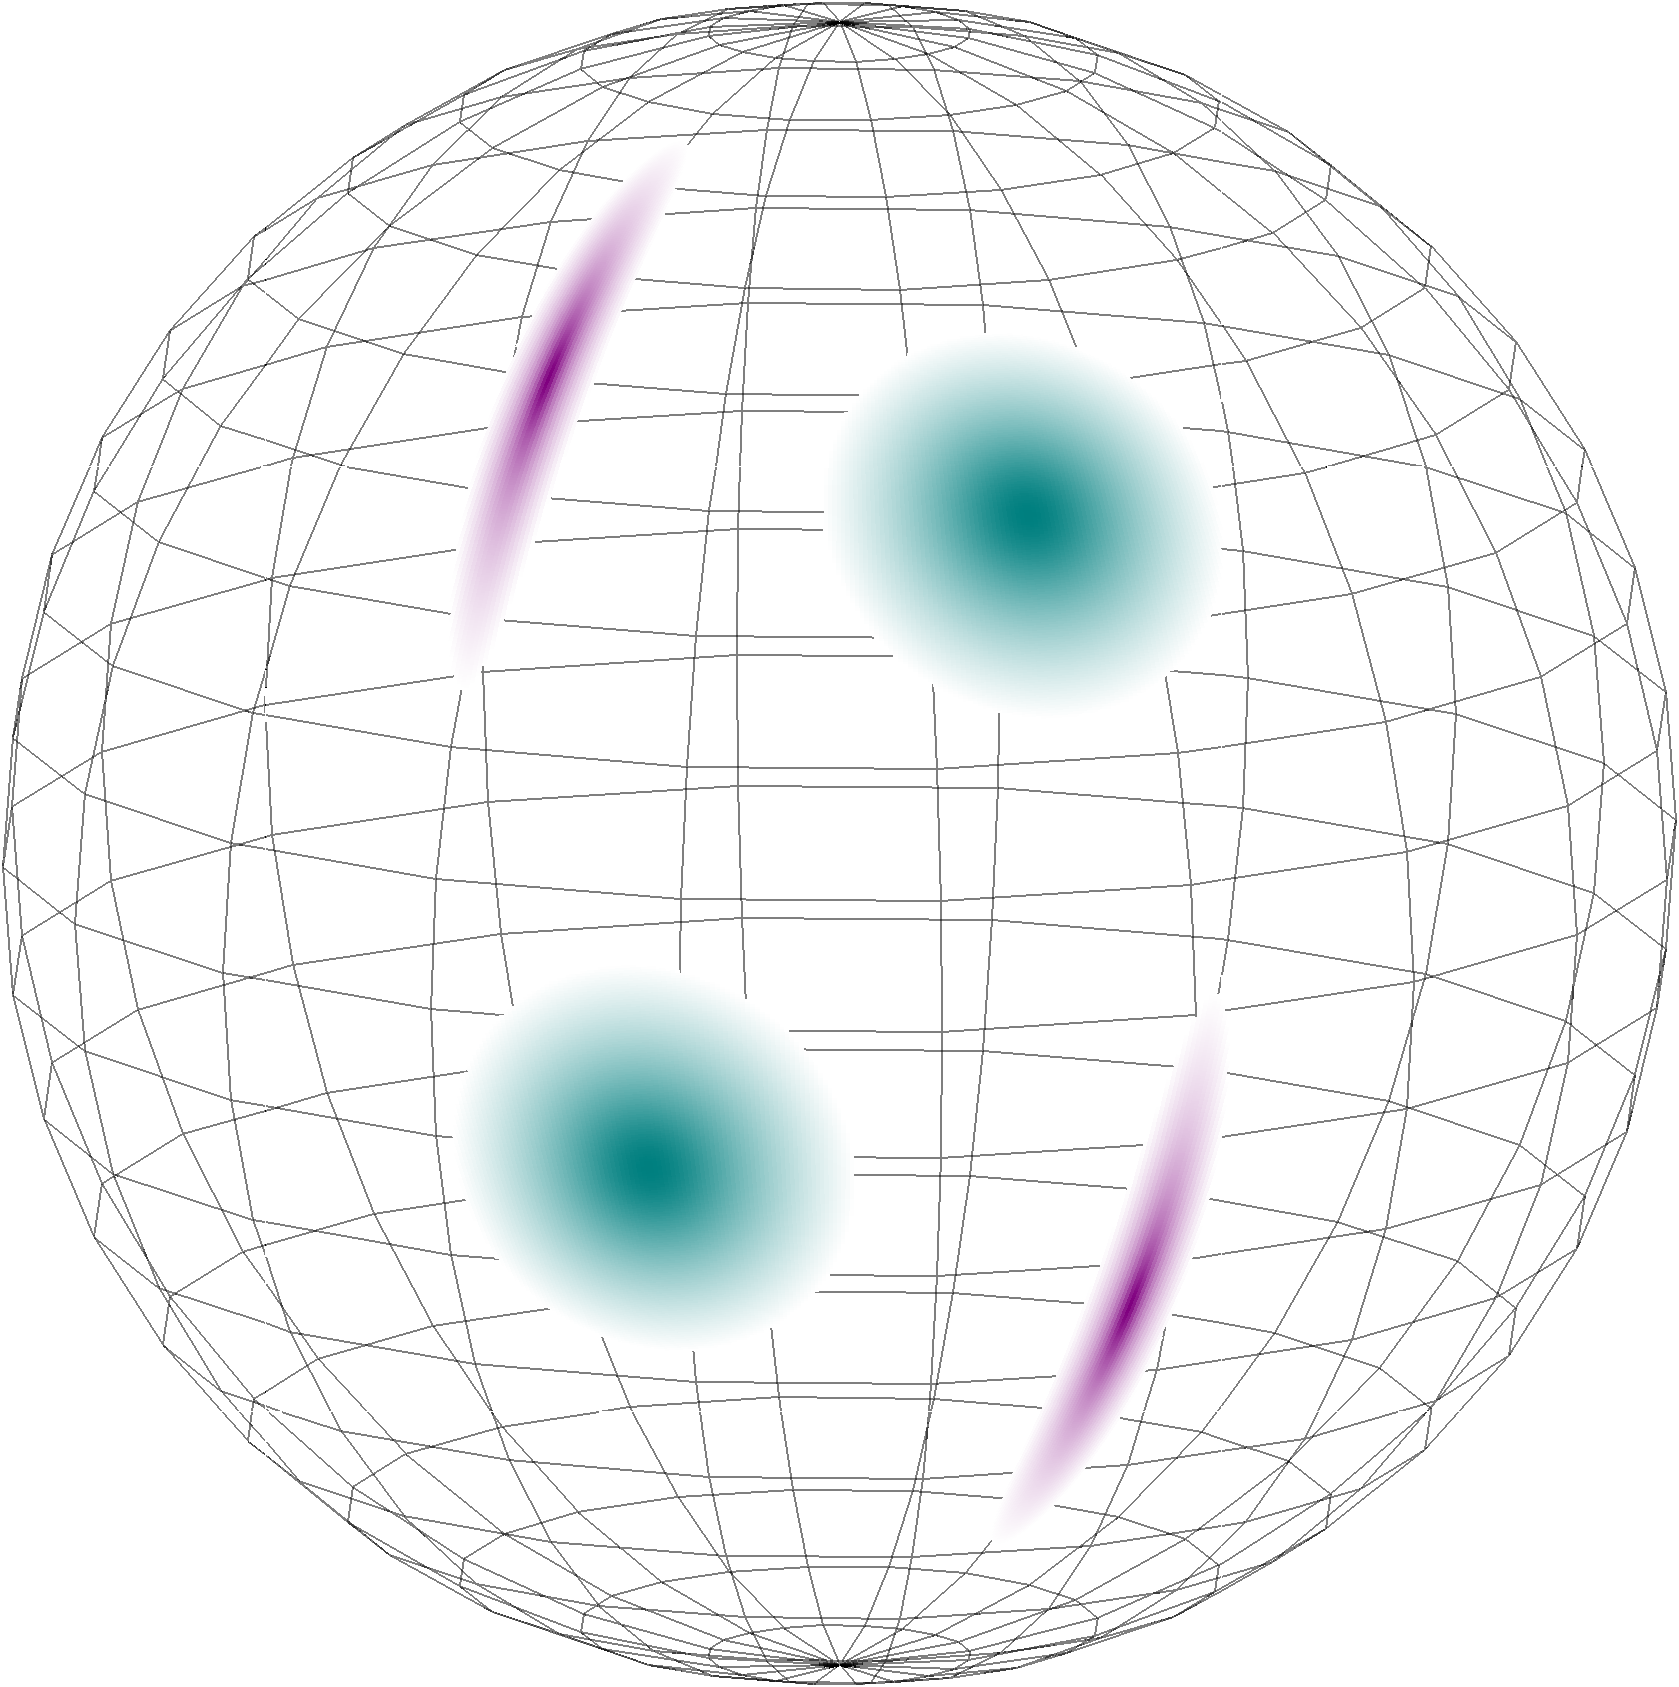
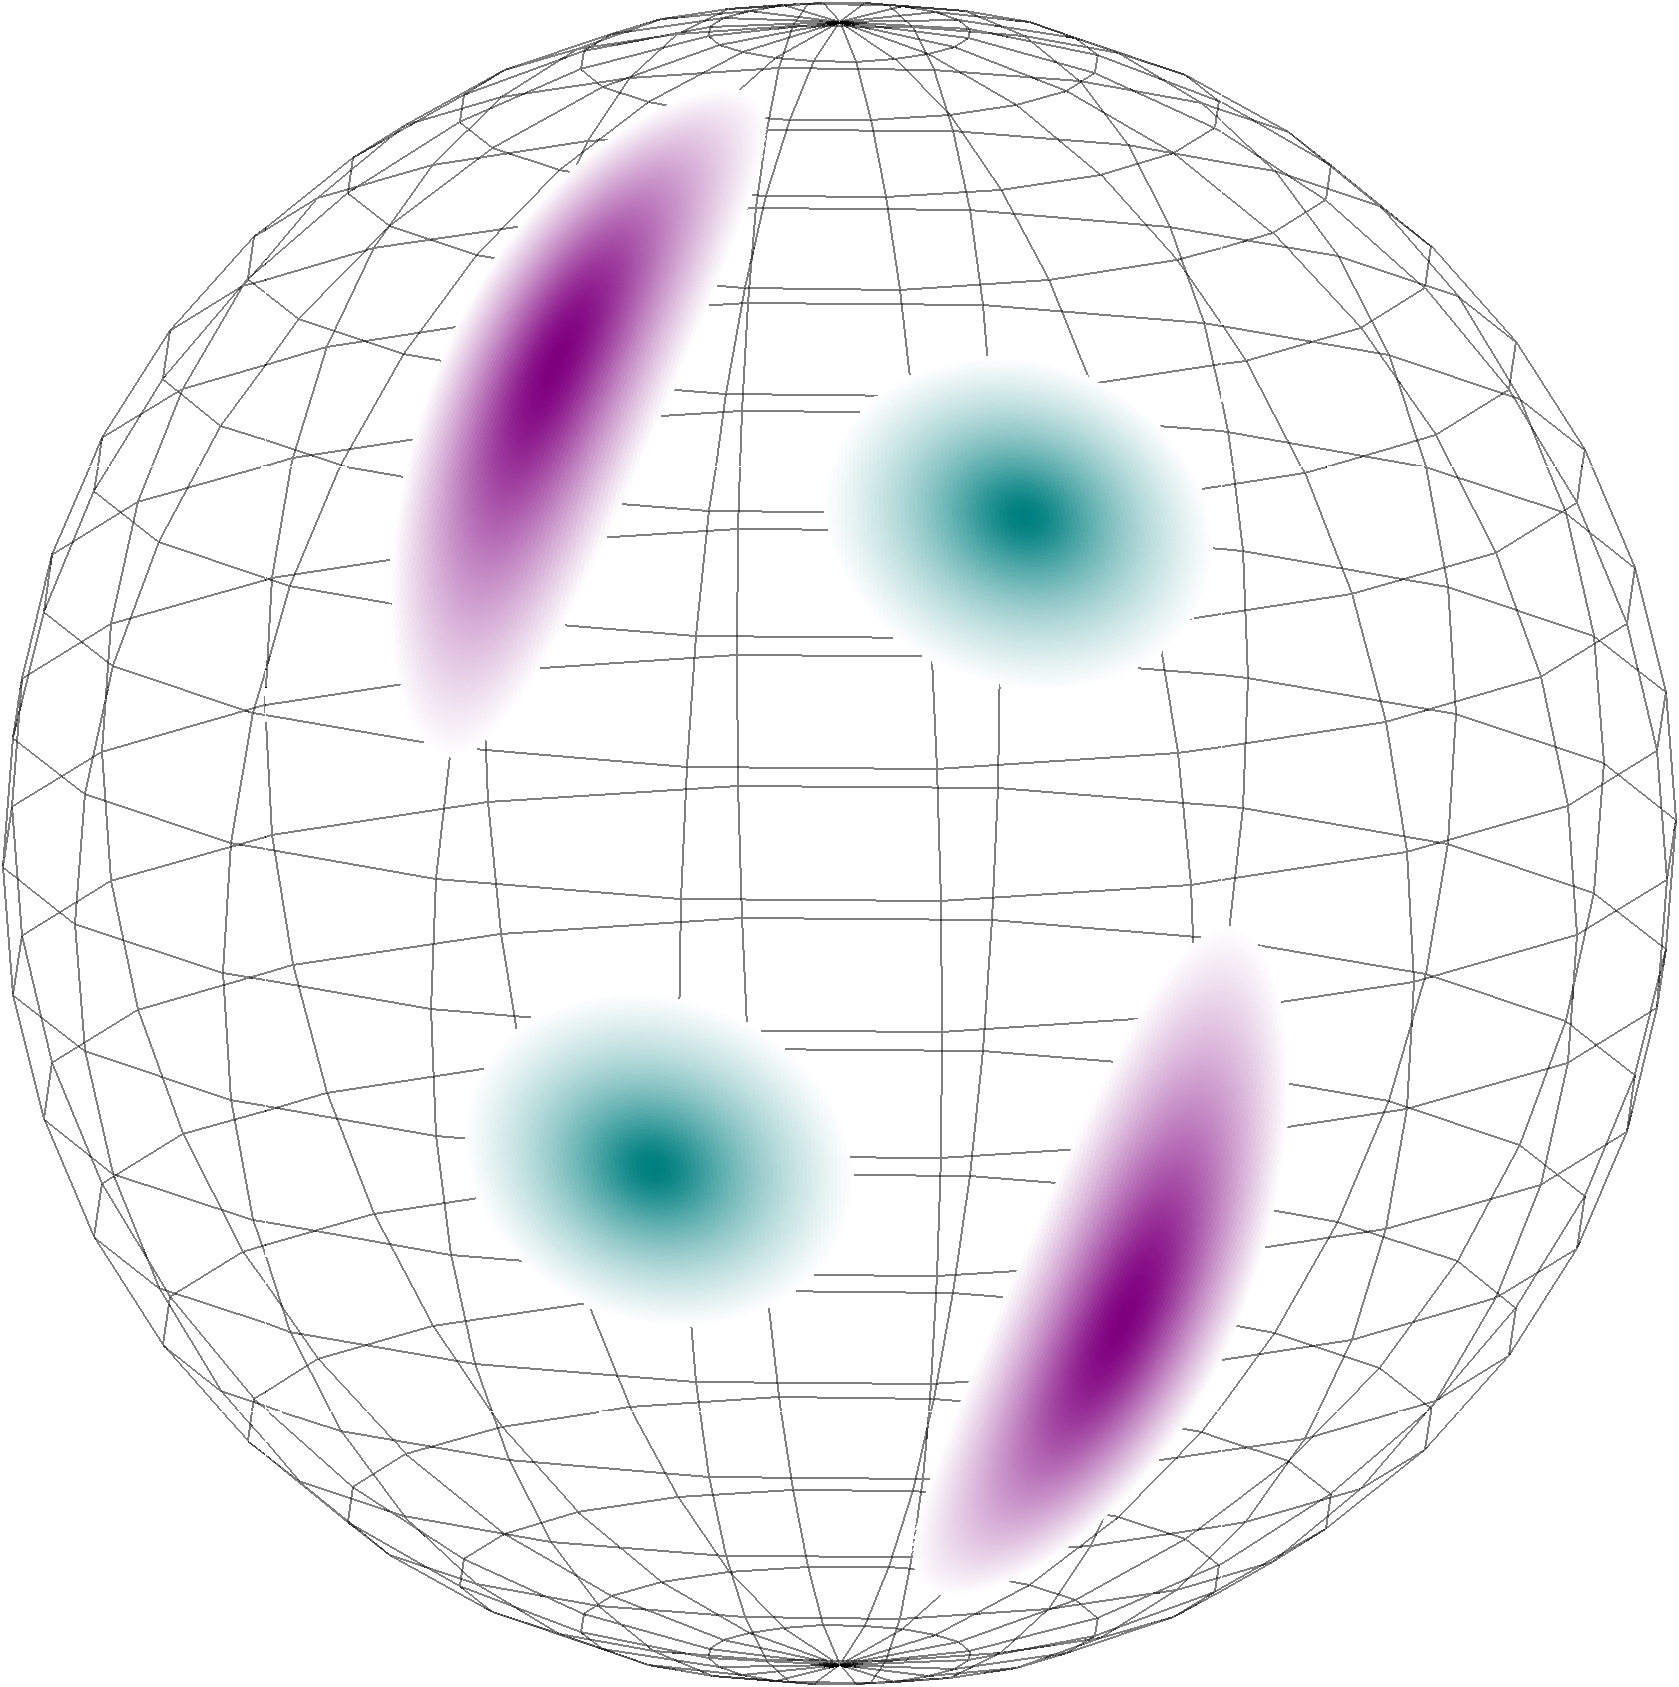
new data

diff --git a/src/visualization/sphere_fig.m b/src/visualization/sphere_fig.m
@@ -8,6 +8,10 @@ task = resample(task_raw(1:97,:),12,1);
 PI = (task-min(task))./sum(task-min(task),2);
 [~,maxseq] = max(PI,[],2);
 
+sig2 = eye(3)+0.99*(ones(3)-eye(3)); %noise is one minus the off diagonal element, log space
+sig3 = diag([1e-02,1,1])+0.9*[0,0,0;0,0,1;0,1,0]; %noise is the first diagonal element, log space
+SIGMAs = cat(3,sig2,sig3);
+
 % for all maxseq=1, which is the second one?
 next1=maxseq((find(maxseq(1:end-1)==1)+1));
 next2=maxseq((find(maxseq(1:end-1)==2)+1));
@@ -39,15 +43,15 @@ kappa1 = table2array(readtable('data/synthetic_methods/Watson_MM_comp0kappa.csv'
 mu2 = table2array(readtable('data/synthetic_methods/Watson_MM_comp1mu.csv'));
 kappa2 = table2array(readtable('data/synthetic_methods/Watson_MM_comp1kappa.csv'));
 orderwmm = contourspherefig([mu1,mu2],[kappa1,kappa2],[],SIGMAs);
-pause(2)
-exportgraphics(gcf,[ff,'sphere_WMM_contour.png'],'Resolution',300)
+% pause(2)
+% exportgraphics(gcf,[ff,'sphere_WMM_contour.png'],'Resolution',300)
 
 %%% ACG MM
 L1 = table2array(readtable('data/synthetic_methods/ACG_MM_comp0.csv'));
 L2 = table2array(readtable('data/synthetic_methods/ACG_MM_comp1.csv'));
 orderacgmm = contourspherefig([],[],cat(3,L1,L2),SIGMAs);
-pause(2)
-exportgraphics(gcf,[ff,'sphere_ACGMM_contour.png'],'Resolution',300)
+% pause(2)
+% exportgraphics(gcf,[ff,'sphere_ACGMM_contour.png'],'Resolution',300)
 
 %%% Watson HMM
 mu1 = table2array(readtable('data/synthetic_methods/Watson_HMM_comp0mu.csv'));
@@ -55,15 +59,15 @@ kappa1 = table2array(readtable('data/synthetic_methods/Watson_HMM_comp0kappa.csv
 mu2 = table2array(readtable('data/synthetic_methods/Watson_HMM_comp1mu.csv'));
 kappa2 = table2array(readtable('data/synthetic_methods/Watson_HMM_comp1kappa.csv'));
 orderwmmhmm = contourspherefig([mu1,mu2],[kappa1,kappa2],[],SIGMAs);
-pause(2)
-exportgraphics(gcf,[ff,'sphere_WMMHMM_contour.png'],'Resolution',300)
+% pause(2)
+% exportgraphics(gcf,[ff,'sphere_WMMHMM_contour.png'],'Resolution',300)
 
 %%% ACG HMM
 L1 = table2array(readtable('data/synthetic_methods/ACG_HMM_comp0.csv'));
 L2 = table2array(readtable('data/synthetic_methods/ACG_HMM_comp1.csv'));
 orderacgmmhmm = contourspherefig([],[],cat(3,L1,L2),SIGMAs);
-pause(2)
-exportgraphics(gcf,[ff,'sphere_ACGMMHMM_contour.png'],'Resolution',300)
+% pause(2)
+% exportgraphics(gcf,[ff,'sphere_ACGMMHMM_contour.png'],'Resolution',300)
 
 %% emission probs
 t_fMRI = linspace(0,4.1,size(X,1));
